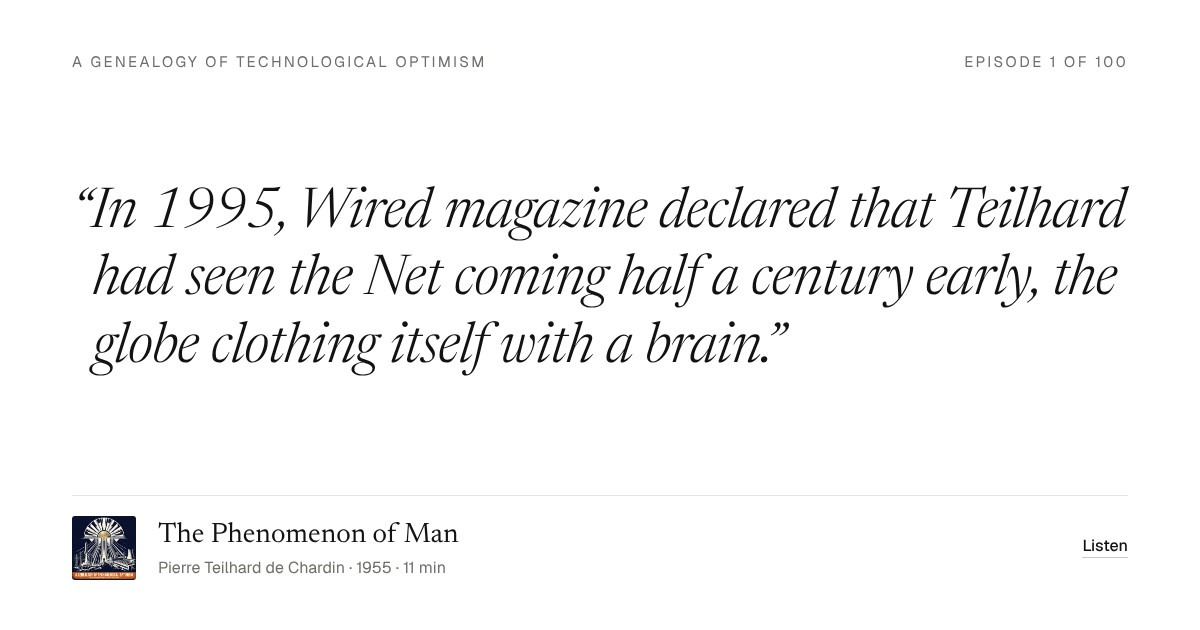
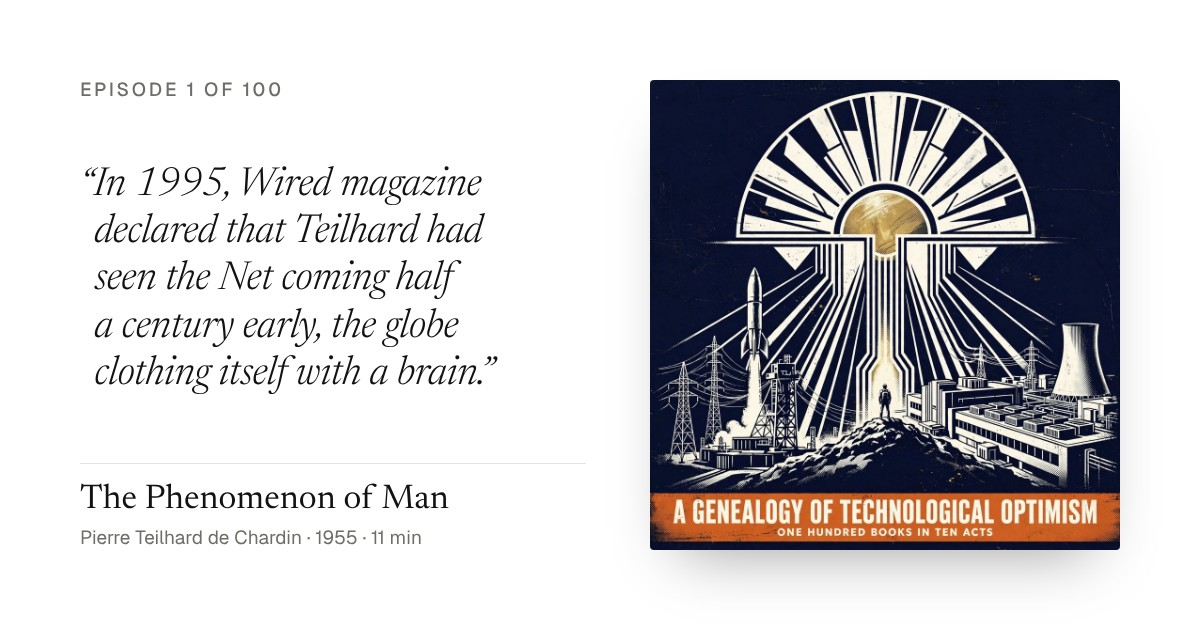
Share cards: cover art carries the show's name, quote and book sized to read as a thumbnail; preview titles include the show
Claude-Session: https://claude.ai/code/session_01X5oQ1dkBWmDZ4rK7JQp8i9

diff --git a/docs/ep/2/index.html b/docs/ep/2/index.html
@@ -10,16 +10,16 @@
 <meta name="theme-color" content="#FFFFFF">
 <meta property="og:type" content="article">
 <meta property="og:site_name" content="A Genealogy of Technological Optimism">
-<meta property="og:title" content="2. The Philosophy of the Common Task">
+<meta property="og:title" content="2. The Philosophy of the Common Task · A Genealogy of Technological Optimism">
 <meta property="og:description" content="A Moscow librarian, mistaken for a beggar, argues that humanity’s single moral duty is to defeat death and physically resurrect every ancestor through science. The episode lays out Fedorov’s common task in his own terms, traces its path from Dostoevsky’s circle to Tsiolkovsky’s rockets and the Soviet space program, then turns on it: Bulgakov’s theological objection, the question of the dead’s consent, and what a century of hindsight did to the project.">
 <meta property="og:url" content="https://jrslotkin.github.io/genealogy-of-optimism/ep/2/">
-<meta property="og:image" content="https://jrslotkin.github.io/genealogy-of-optimism/ep/2/og.jpg?v=03f55322">
+<meta property="og:image" content="https://jrslotkin.github.io/genealogy-of-optimism/ep/2/og.jpg?v=bda64494">
 <meta property="og:image:width" content="1200">
 <meta property="og:image:height" content="630">
 <meta name="twitter:card" content="summary_large_image">
-<meta name="twitter:title" content="2. The Philosophy of the Common Task">
+<meta name="twitter:title" content="2. The Philosophy of the Common Task · A Genealogy of Technological Optimism">
 <meta name="twitter:description" content="A Moscow librarian, mistaken for a beggar, argues that humanity’s single moral duty is to defeat death and physically resurrect every ancestor through science. The episode lays out Fedorov’s common task in his own terms, traces its path from Dostoevsky’s circle to Tsiolkovsky’s rockets and the Soviet space program, then turns on it: Bulgakov’s theological objection, the question of the dead’s consent, and what a century of hindsight did to the project.">
-<meta name="twitter:image" content="https://jrslotkin.github.io/genealogy-of-optimism/ep/2/og.jpg?v=03f55322">
+<meta name="twitter:image" content="https://jrslotkin.github.io/genealogy-of-optimism/ep/2/og.jpg?v=bda64494">
 <link rel="icon" type="image/png" sizes="64x64" href="../../favicon.png">
 <link rel="apple-touch-icon" href="../../apple-touch-icon.png">
 <link rel="preload" href="../../fonts/newsreader.woff2" as="font" type="font/woff2" crossorigin>

diff --git a/docs/ep/3/index.html b/docs/ep/3/index.html
@@ -10,16 +10,16 @@
 <meta name="theme-color" content="#FFFFFF">
 <meta property="og:type" content="article">
 <meta property="og:site_name" content="A Genealogy of Technological Optimism">
-<meta property="og:title" content="3. New Atlantis">
+<meta property="og:title" content="3. New Atlantis · A Genealogy of Technological Optimism">
 <meta property="og:description" content="A disgraced Lord Chancellor writes the blueprint for the perfect research institution: Salomon’s House, with its spies, its nine offices of scientific labor, and its oath of secrecy. The episode lays out Bacon’s New Atlantis in his own terms, tests the famous claim that it fathered the Royal Society, then turns on it: thirty-six men deciding in secret what mankind may know, the domination-of-nature critique, and what four centuries of hindsight did to the program.">
 <meta property="og:url" content="https://jrslotkin.github.io/genealogy-of-optimism/ep/3/">
-<meta property="og:image" content="https://jrslotkin.github.io/genealogy-of-optimism/ep/3/og.jpg?v=c4837c1d">
+<meta property="og:image" content="https://jrslotkin.github.io/genealogy-of-optimism/ep/3/og.jpg?v=8d755768">
 <meta property="og:image:width" content="1200">
 <meta property="og:image:height" content="630">
 <meta name="twitter:card" content="summary_large_image">
-<meta name="twitter:title" content="3. New Atlantis">
+<meta name="twitter:title" content="3. New Atlantis · A Genealogy of Technological Optimism">
 <meta name="twitter:description" content="A disgraced Lord Chancellor writes the blueprint for the perfect research institution: Salomon’s House, with its spies, its nine offices of scientific labor, and its oath of secrecy. The episode lays out Bacon’s New Atlantis in his own terms, tests the famous claim that it fathered the Royal Society, then turns on it: thirty-six men deciding in secret what mankind may know, the domination-of-nature critique, and what four centuries of hindsight did to the program.">
-<meta name="twitter:image" content="https://jrslotkin.github.io/genealogy-of-optimism/ep/3/og.jpg?v=c4837c1d">
+<meta name="twitter:image" content="https://jrslotkin.github.io/genealogy-of-optimism/ep/3/og.jpg?v=8d755768">
 <link rel="icon" type="image/png" sizes="64x64" href="../../favicon.png">
 <link rel="apple-touch-icon" href="../../apple-touch-icon.png">
 <link rel="preload" href="../../fonts/newsreader.woff2" as="font" type="font/woff2" crossorigin>

diff --git a/docs/ep/1/index.html b/docs/ep/1/index.html
@@ -10,16 +10,16 @@
 <meta name="theme-color" content="#FFFFFF">
 <meta property="og:type" content="article">
 <meta property="og:site_name" content="A Genealogy of Technological Optimism">
-<meta property="og:title" content="1. The Phenomenon of Man">
+<meta property="og:title" content="1. The Phenomenon of Man · A Genealogy of Technological Optimism">
 <meta property="og:description" content="A Jesuit paleontologist, silenced by his own Church, writes a cosmic history in wartime Beijing: evolution as one movement toward complexity, consciousness, and a final convergence he calls the Omega Point. The episode lays out the argument in Teilhard’s own terms, reconstructs the double attack from scientists and Rome, and follows its afterlife through the internet and transhumanism.">
 <meta property="og:url" content="https://jrslotkin.github.io/genealogy-of-optimism/ep/1/">
-<meta property="og:image" content="https://jrslotkin.github.io/genealogy-of-optimism/ep/1/og.jpg?v=f3670581">
+<meta property="og:image" content="https://jrslotkin.github.io/genealogy-of-optimism/ep/1/og.jpg?v=83be223c">
 <meta property="og:image:width" content="1200">
 <meta property="og:image:height" content="630">
 <meta name="twitter:card" content="summary_large_image">
-<meta name="twitter:title" content="1. The Phenomenon of Man">
+<meta name="twitter:title" content="1. The Phenomenon of Man · A Genealogy of Technological Optimism">
 <meta name="twitter:description" content="A Jesuit paleontologist, silenced by his own Church, writes a cosmic history in wartime Beijing: evolution as one movement toward complexity, consciousness, and a final convergence he calls the Omega Point. The episode lays out the argument in Teilhard’s own terms, reconstructs the double attack from scientists and Rome, and follows its afterlife through the internet and transhumanism.">
-<meta name="twitter:image" content="https://jrslotkin.github.io/genealogy-of-optimism/ep/1/og.jpg?v=f3670581">
+<meta name="twitter:image" content="https://jrslotkin.github.io/genealogy-of-optimism/ep/1/og.jpg?v=83be223c">
 <link rel="icon" type="image/png" sizes="64x64" href="../../favicon.png">
 <link rel="apple-touch-icon" href="../../apple-touch-icon.png">
 <link rel="preload" href="../../fonts/newsreader.woff2" as="font" type="font/woff2" crossorigin>

diff --git a/build/build_site.py b/build/build_site.py
@@ -1043,8 +1043,11 @@ def build_html(zip_info):
 """
 
 
+OG_LAYOUT = "2"   # bump when the share-card design changes, so apps fetch the new image
+
+
 def og_version(*parts):
-    h = hashlib.sha1(COVER_SRC.read_bytes())
+    h = hashlib.sha1(COVER_SRC.read_bytes() + OG_LAYOUT.encode())
     for p in parts:
         h.update(str(p).encode())
     return h.hexdigest()[:8]
@@ -1091,14 +1094,14 @@ def build_episode_page(ep):
 <meta name="theme-color" content="#FFFFFF">
 <meta property="og:type" content="article">
 <meta property="og:site_name" content="{e(TITLE)}">
-<meta property="og:title" content="{e(f'{n}. {b["title"]}')}">
+<meta property="og:title" content="{e(title)}">
 <meta property="og:description" content="{e(desc)}">
 <meta property="og:url" content="{e(url)}">
 <meta property="og:image" content="{e(og)}">
 <meta property="og:image:width" content="1200">
 <meta property="og:image:height" content="630">
 <meta name="twitter:card" content="summary_large_image">
-<meta name="twitter:title" content="{e(f'{n}. {b["title"]}')}">
+<meta name="twitter:title" content="{e(title)}">
 <meta name="twitter:description" content="{e(desc)}">
 <meta name="twitter:image" content="{e(og)}">
 <link rel="icon" type="image/png" sizes="64x64" href="{R}favicon.png">
@@ -1157,28 +1160,33 @@ def build_episode_ogs(eps):
         for ep in eps:
             n, bk = ep["num"], BOOKS[ep["num"]]
             q = smart((ep.get("pull") or {}).get("text") or bk["note"])
-            size = 80 if len(q) <= 60 else 64 if len(q) <= 110 else 56 if len(q) <= 170 else 50 if len(q) <= 230 else 44
-            balance = "text-wrap:balance;" if len(q) <= 60 else ""   # a short line breaks evenly, not with one word left over
+            # Cover art carries the show's name and is what people see in their podcast app;
+            # the quote is the hook; the book names the episode. Everything sized to read as a thumbnail.
+            size = 46 if len(q) <= 110 else 40 if len(q) <= 170 else 35 if len(q) <= 230 else 31
             dur = to_seconds(ep.get("duration") or 0)
             tmp = OUT / "_og_ep.html"
             tmp.write_text(f"""<!doctype html><meta charset="utf-8"><style>{faces()}
 html,body{{margin:0;width:1200px;height:630px;background:#fff;color:#121212}}
-.w{{box-sizing:border-box;width:1200px;height:630px;padding:54px 72px 50px;display:flex;flex-direction:column}}
-.top{{display:flex;justify-content:space-between;font:400 15px/1 Geist;letter-spacing:.16em;text-transform:uppercase;color:#6E6E69}}
-.q{{flex:1;display:flex;align-items:center}}
-blockquote{{margin:0;padding-left:.38em;font:italic 330 {size}px/1.2 Newsreader;letter-spacing:-.01em;text-indent:-.38em;color:#121212;{balance}}}
-.bot{{display:grid;grid-template-columns:64px minmax(0,1fr) auto;align-items:center;gap:22px;border-top:1px solid #E4E4E1;padding-top:20px}}
-.bot img{{width:64px;height:64px;border-radius:3px;display:block}}
-.t{{font:400 28px/1.15 Newsreader}}
-.m{{margin-top:6px;font:400 16px/1.2 Geist;color:#6E6E69}}
-.go{{font:500 16px/1 Geist;color:#121212;border-bottom:1px solid #C9C9C5;padding-bottom:3px}}
-</style><div class="w"><div class="top"><span>{e(TITLE)}</span><span>Episode {n} of 100</span></div>
-<div class="q"><blockquote>&ldquo;{e(q)}&rdquo;</blockquote></div>
-<div class="bot"><img src="cover.jpg"><div><div class="t">{e(bk['title'])}</div>
-<div class="m">{e(bk['author'])} &middot; {bk['year']}{f' &middot; {round(dur / 60)} min' if dur else ''}</div></div><span class="go">Listen</span></div></div>""")
+.w{{box-sizing:border-box;width:1200px;height:630px;padding:80px;display:grid;grid-template-columns:minmax(0,1fr) 470px;gap:64px}}
+.t{{display:flex;flex-direction:column;justify-content:space-between;height:470px;min-width:0;overflow:hidden}}
+.ey{{font:500 19px/1 Geist;letter-spacing:.14em;text-transform:uppercase;color:#6E6E69}}
+blockquote{{margin:0;padding-left:.36em;text-indent:-.36em;font:italic 330 {size}px/1.18 Newsreader;letter-spacing:-.01em;color:#121212;text-wrap:balance}}
+.bk{{border-top:1px solid #E4E4E1;padding-top:18px}}
+.bt{{font:400 34px/1.1 Newsreader;color:#121212;text-wrap:balance}}
+.bm{{margin-top:8px;font:400 19px/1.2 Geist;color:#6E6E69}}
+img{{width:470px;height:470px;border-radius:4px;display:block;box-shadow:0 30px 60px -30px rgba(0,0,0,.4)}}
+</style><div class="w"><div class="t"><div class="ey">Episode {n} of 100</div>
+<blockquote>&ldquo;{e(q)}&rdquo;</blockquote>
+<div class="bk"><div class="bt">{e(bk['title'])}</div>
+<div class="bm">{e(bk['author'])} &middot; {bk['year']}{f' &middot; {round(dur / 60)} min' if dur else ''}</div></div></div>
+<img src="cover.jpg" alt=""></div>""")
             pg.goto(tmp.as_uri())
             pg.evaluate("document.fonts.ready")
             pg.wait_for_timeout(250)
+            # a long quote steps down until the column fits
+            pg.evaluate("""() => { const t = document.querySelector('.t'), q = document.querySelector('blockquote');
+              let s = parseFloat(getComputedStyle(q).fontSize);
+              while (t.scrollHeight > t.clientHeight + 1 && s > 24) { s -= 1; q.style.fontSize = s + 'px'; } }""")
             d = OUT / "ep" / str(n)
             d.mkdir(parents=True, exist_ok=True)
             pg.screenshot(path=str(d / "og.png"))
